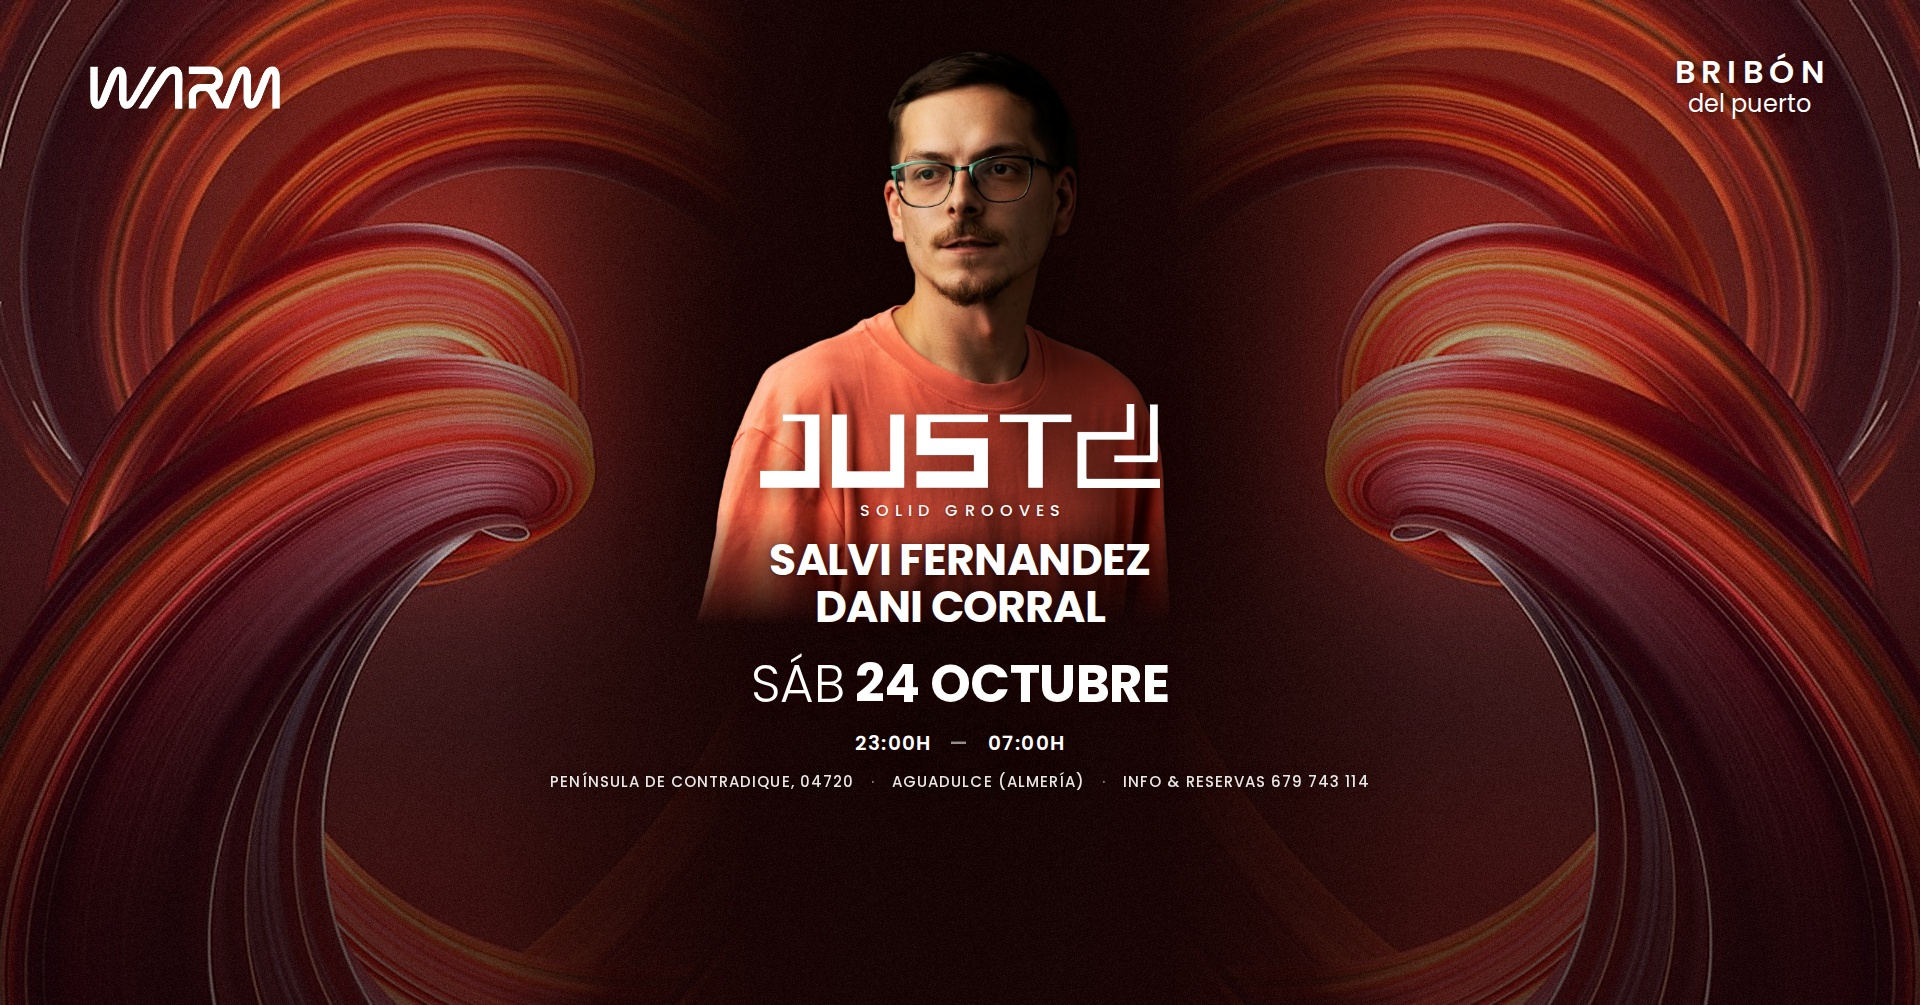
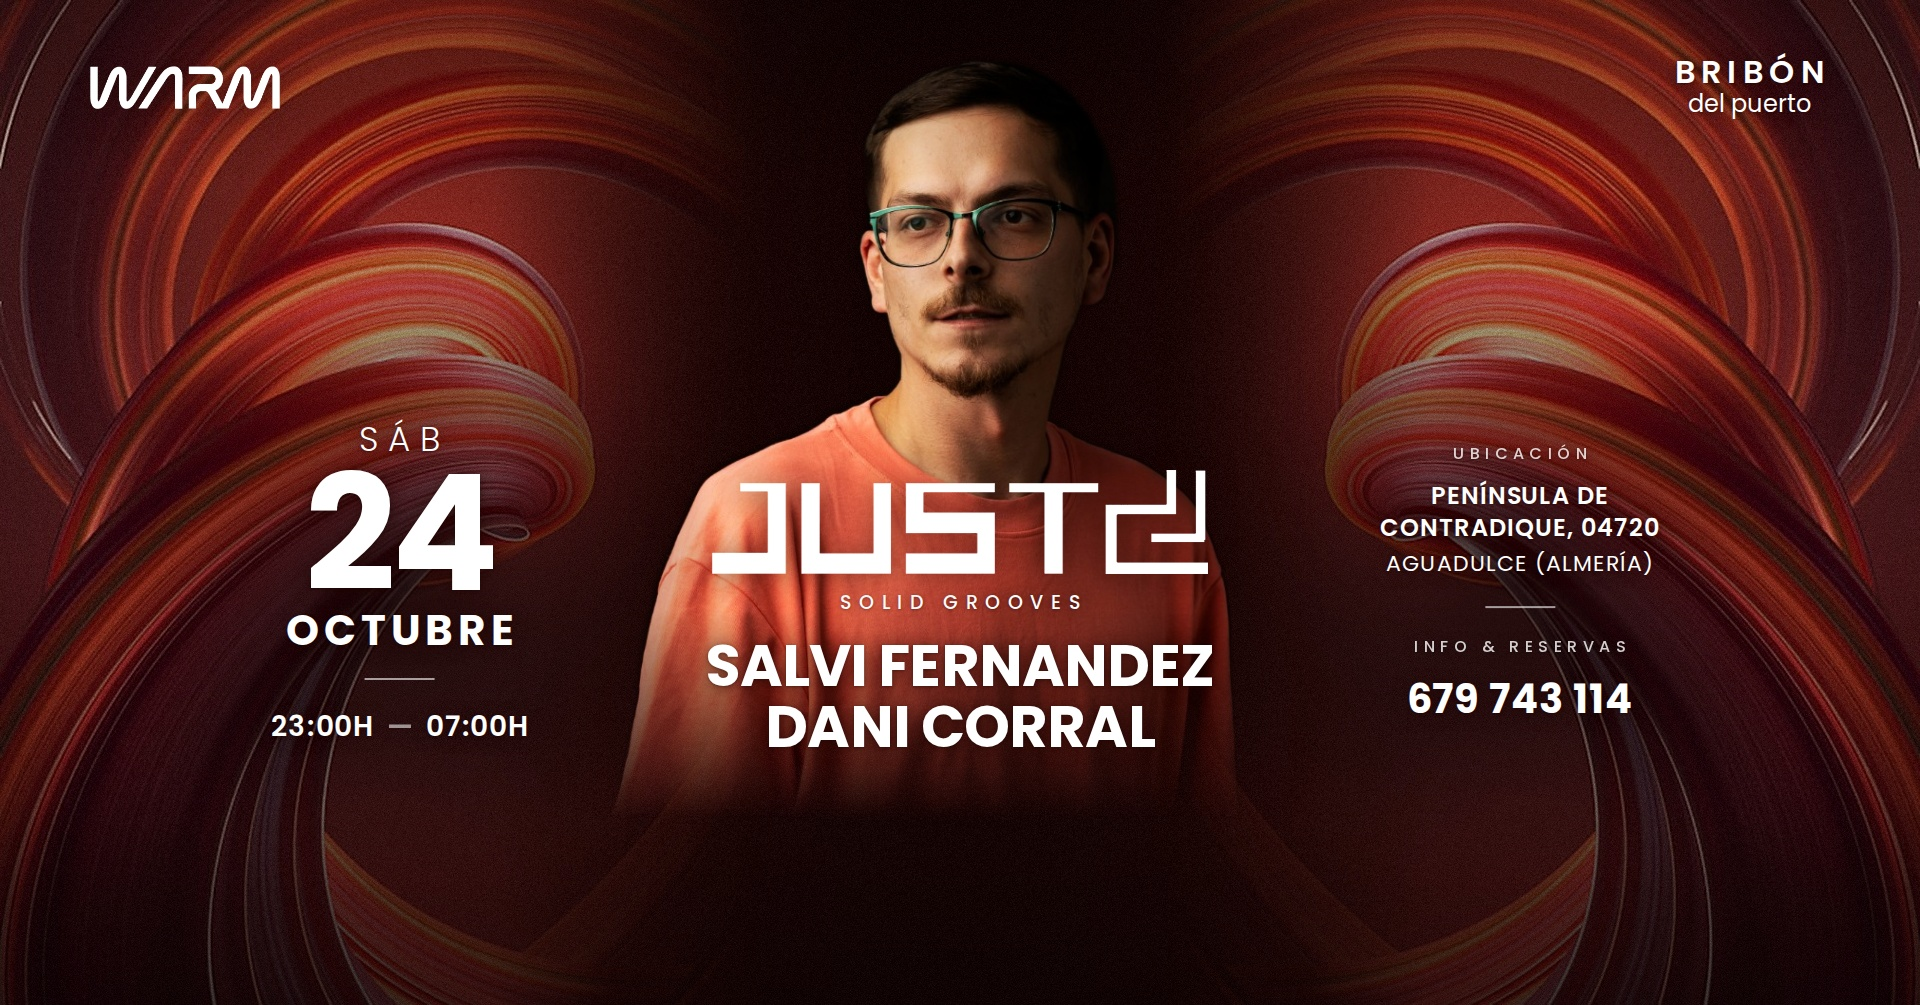
WARM 24.10 — coperte 1920×1005 și 851×315 refăcute pe 3 coloane cu toată informația
Claude-Session: https://claude.ai/code/session_01PsYJ7xTqRMzxVLnVuQx1Lt

diff --git a/warm_24oct/cover_3col.html b/warm_24oct/cover_3col.html
@@ -1,0 +1,43 @@
+<!doctype html><html><head><meta charset="utf-8">
+<link href="fonts_poppins.css" rel="stylesheet">
+<style>
+*{margin:0;padding:0;box-sizing:border-box}
+body{width:1920px;height:1005px;overflow:hidden;background:#200606 url(bg_swirl_mirror_1920.jpg) 0 0/1920px 1005px no-repeat;font-family:'Poppins',sans-serif;color:#fff;text-transform:uppercase}
+.dim{position:absolute;inset:0;background:
+ radial-gradient(ellipse 330px 300px at 400px 585px,rgba(18,3,3,.72),rgba(18,3,3,0) 100%),
+ radial-gradient(ellipse 330px 300px at 1520px 585px,rgba(18,3,3,.72),rgba(18,3,3,0) 100%),
+ linear-gradient(180deg,rgba(0,0,0,.25),rgba(0,0,0,0) 18%,rgba(0,0,0,0) 80%,rgba(0,0,0,.35))}
+.photo{position:absolute;left:338px;top:-132px;width:1266px;height:1900px;background:url(photos/just2_cutout.png) 0 0/100% 100% no-repeat;
+ -webkit-mask-image:linear-gradient(180deg,#000 0%,#000 39%,rgba(0,0,0,0) 50%);filter:drop-shadow(0 0 40px rgba(20,0,0,.55))}
+.sh{text-shadow:0 2px 16px rgba(30,4,0,.65),0 1px 3px rgba(30,4,0,.4)}
+img.sh{filter:drop-shadow(0 2px 14px rgba(30,4,0,.5))}
+.warm{position:absolute;top:66px;left:90px;width:190px}
+.tr{position:absolute;top:56px;right:90px;text-align:center;line-height:1}
+.tr b{display:block;font-weight:600;font-size:32px;letter-spacing:.2em;padding-left:.2em}
+.tr i{display:block;font-style:normal;font-weight:400;font-size:24px;text-transform:none;margin-top:4px}
+.col{position:absolute;top:585px;transform:translate(-50%,-50%);display:flex;flex-direction:column;align-items:center;text-align:center}
+.L{left:400px}.R{left:1520px}
+.dow{font-weight:300;font-size:34px;letter-spacing:.3em;padding-left:.3em;line-height:1}
+.day{font-weight:700;font-size:160px;line-height:.9;letter-spacing:-.03em;margin-top:6px}
+.mon{font-weight:700;font-size:42px;letter-spacing:.12em;padding-left:.12em;line-height:1;margin-top:4px}
+.rule{width:70px;height:2px;background:#fff;opacity:.6;margin:26px 0}
+.time{font-weight:600;font-size:28px;letter-spacing:.06em}
+.time em{font-style:normal;opacity:.55;margin:0 12px}
+.cap{font-weight:500;font-size:16px;letter-spacing:.34em;padding-left:.34em;opacity:.8}
+.addr{font-weight:600;font-size:24px;letter-spacing:.04em;line-height:1.35;margin-top:14px}
+.city{font-weight:400;font-size:22px;letter-spacing:.04em;margin-top:2px}
+.phone{font-weight:700;font-size:40px;letter-spacing:.02em;margin-top:10px}
+.c{position:absolute;left:0;right:0;top:470px;display:flex;flex-direction:column;align-items:center;text-align:center}
+.j2{height:104px}
+.label{font-weight:500;font-size:19px;letter-spacing:.4em;padding-left:.4em;margin:14px 0 18px}
+.n{font-weight:700;font-size:58px;line-height:1.06;letter-spacing:-.015em}
+</style></head><body>
+<div class="photo"></div><div class="dim"></div>
+<img class="warm sh" src="logos/warm_white.png">
+<div class="tr sh"><b>BRIBÓN</b><i>del puerto</i></div>
+<div class="col L sh"><div class="dow">SÁB</div><div class="day">24</div><div class="mon">OCTUBRE</div><div class="rule"></div><div class="time">23:00H<em>—</em>07:00H</div></div>
+<div class="c sh"><img class="j2 sh" src="logos/just2_white.png"><div class="label">Solid Grooves</div>
+ <div class="n">Salvi Fernandez</div><div class="n">Dani Corral</div></div>
+<div class="col R sh"><div class="cap">Ubicación</div><div class="addr">Península de<br>Contradique, 04720</div><div class="city">Aguadulce (Almería)</div>
+ <div class="rule"></div><div class="cap">Info &amp; Reservas</div><div class="phone">679 743 114</div></div>
+</body></html>

diff --git a/warm_24oct/cover_3col_851.html b/warm_24oct/cover_3col_851.html
@@ -1,0 +1,43 @@
+<!doctype html><html><head><meta charset="utf-8">
+<link href="fonts_poppins.css" rel="stylesheet">
+<style>
+*{margin:0;padding:0;box-sizing:border-box}
+body{width:851px;height:315px;overflow:hidden;background:#200606 url(bg_swirl_851.jpg) 0 0/851px 315px no-repeat;font-family:'Poppins',sans-serif;color:#fff;text-transform:uppercase}
+.dim{position:absolute;inset:0;background:
+ radial-gradient(ellipse 140px 110px at 205px 185px,rgba(18,3,3,.72),rgba(18,3,3,0) 100%),
+ radial-gradient(ellipse 140px 110px at 646px 185px,rgba(18,3,3,.72),rgba(18,3,3,0) 100%),
+ linear-gradient(180deg,rgba(0,0,0,.25),rgba(0,0,0,0) 18%,rgba(0,0,0,0) 80%,rgba(0,0,0,.35))}
+.photo{position:absolute;left:164px;top:-67px;width:533px;height:800px;background:url(photos/just2_cutout.png) 0 0/100% 100% no-repeat;
+ -webkit-mask-image:linear-gradient(180deg,#000 0%,#000 36%,rgba(0,0,0,0) 44%);filter:drop-shadow(0 0 18px rgba(20,0,0,.55))}
+.sh{text-shadow:0 1px 8px rgba(30,4,0,.65),0 1px 2px rgba(30,4,0,.4)}
+img.sh{filter:drop-shadow(0 1px 7px rgba(30,4,0,.5))}
+.warm{position:absolute;top:29px;left:40px;width:86px}
+.tr{position:absolute;top:24px;right:40px;text-align:center;line-height:1}
+.tr b{display:block;font-weight:600;font-size:14px;letter-spacing:.2em;padding-left:.2em}
+.tr i{display:block;font-style:normal;font-weight:400;font-size:11px;text-transform:none;margin-top:2px}
+.col{position:absolute;top:188px;transform:translate(-50%,-50%);display:flex;flex-direction:column;align-items:center;text-align:center}
+.L{left:205px}.R{left:646px}
+.dow{font-weight:300;font-size:12px;letter-spacing:.3em;padding-left:.3em;line-height:1}
+.day{font-weight:700;font-size:58px;line-height:.9;letter-spacing:-.03em;margin-top:3px}
+.mon{font-weight:700;font-size:15px;letter-spacing:.12em;padding-left:.12em;line-height:1;margin-top:4px}
+.rule{width:28px;height:1px;background:#fff;opacity:.6;margin:9px 0}
+.time{font-weight:600;font-size:11px;letter-spacing:.06em}
+.time em{font-style:normal;opacity:.55;margin:0 5px}
+.cap{font-weight:500;font-size:7px;letter-spacing:.34em;padding-left:.34em;opacity:.8}
+.addr{font-weight:600;font-size:10px;letter-spacing:.04em;line-height:1.35;margin-top:5px}
+.city{font-weight:400;font-size:9px;letter-spacing:.04em;margin-top:2px}
+.phone{font-weight:700;font-size:16px;letter-spacing:.02em;margin-top:4px}
+.c{position:absolute;left:0;right:0;top:176px;display:flex;flex-direction:column;align-items:center;text-align:center}
+.j2{height:32px}
+.label{font-weight:500;font-size:8px;letter-spacing:.38em;padding-left:.38em;margin:5px 0 7px}
+.n{font-weight:700;font-size:18px;line-height:1.06;letter-spacing:-.015em}
+</style></head><body>
+<div class="photo"></div><div class="dim"></div>
+<img class="warm sh" src="logos/warm_white.png">
+<div class="tr sh"><b>BRIBÓN</b><i>del puerto</i></div>
+<div class="col L sh"><div class="dow">SÁB</div><div class="day">24</div><div class="mon">OCTUBRE</div><div class="rule"></div><div class="time">23:00H<em>—</em>07:00H</div></div>
+<div class="c sh"><img class="j2 sh" src="logos/just2_white.png"><div class="label">Solid Grooves</div>
+ <div class="n">Salvi Fernandez</div><div class="n">Dani Corral</div></div>
+<div class="col R sh"><div class="cap">Ubicación</div><div class="addr">Península de<br>Contradique, 04720</div><div class="city">Aguadulce (Almería)</div>
+ <div class="rule"></div><div class="cap">Info &amp; Reservas</div><div class="phone">679 743 114</div></div>
+</body></html>
